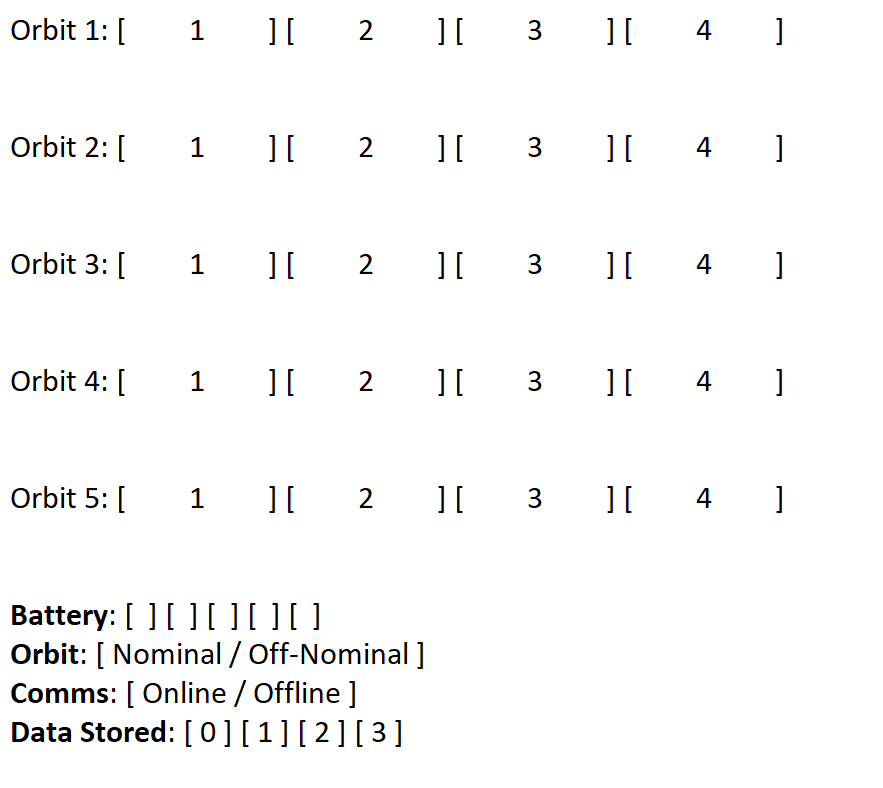
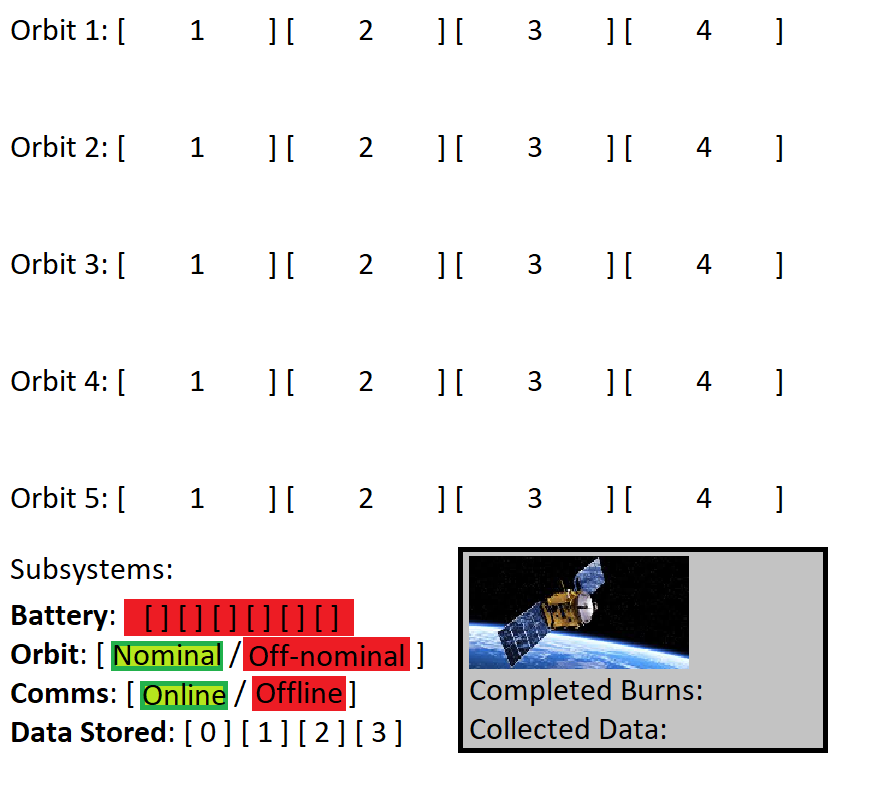
Improve prototype board design

Changed region(s): [[0.5198, 0.6701, 0.9479, 0.9746], [0.0, 0.7005, 0.4892, 0.9137]]

diff --git a/card_text.md b/card_text.md
@@ -21,9 +21,9 @@
 | Role                      | Card Name (TLE)     | Effect                                                        | Conditions                                                | Reveal Effect                                                                      |
 | ------------------------- | ------------------- | ------------------------------------------------------------- | --------------------------------------------------------- | --------------------------------------------------------------------------------- |
 | **Comms Officer**         | High-Gain Pass      | Downlink 2 Data **per Data Stored**; costs -1 Battery         | Must follow **Data Capture**                              | If Battery ≤ 2 → Comms go Offline.                                                |
-| **Power Engineer**        | Battery Recondition | Reset Battery to exactly 3                                    | Must not precede **Maneuver Burn**                        | If Battery is already 3 → discard and draw 1.                                     |
+| **Power Engineer**        | Battery Recondition | Reset Battery to exactly 3                                    | Must not precede **Maneuver Burn**                        | If Battery is already 3 → turn over and draw 1.                                   |
 | **Flight Dynamics Officer** | Precision Burn    | Restore Orbit to Nominal without Battery cost                 | Must follow **Attitude Change**                           | If Orbit is already Nominal → wasted slot.                                        |
-| **Payload Officer**       | Science Burst       | Capture 2 Data in one slot; costs -1 Battery                  | Requires **Comms Online**; Must be followed within 2 slots by **Downlink** | If Battery ≤ 1 → Payload Glitch (lose 1 Data Stored).                             |
+| **Payload Officer**       | Science Burst       | Capture 2 Data in one slot; costs -1 Battery                  | Requires **Comms Online**; Must be followed within 2 slots by **Downlink** | If Battery ≤ 1 → Payload Glitch (lose 1 Data Stored).             |
 
 ---
 
